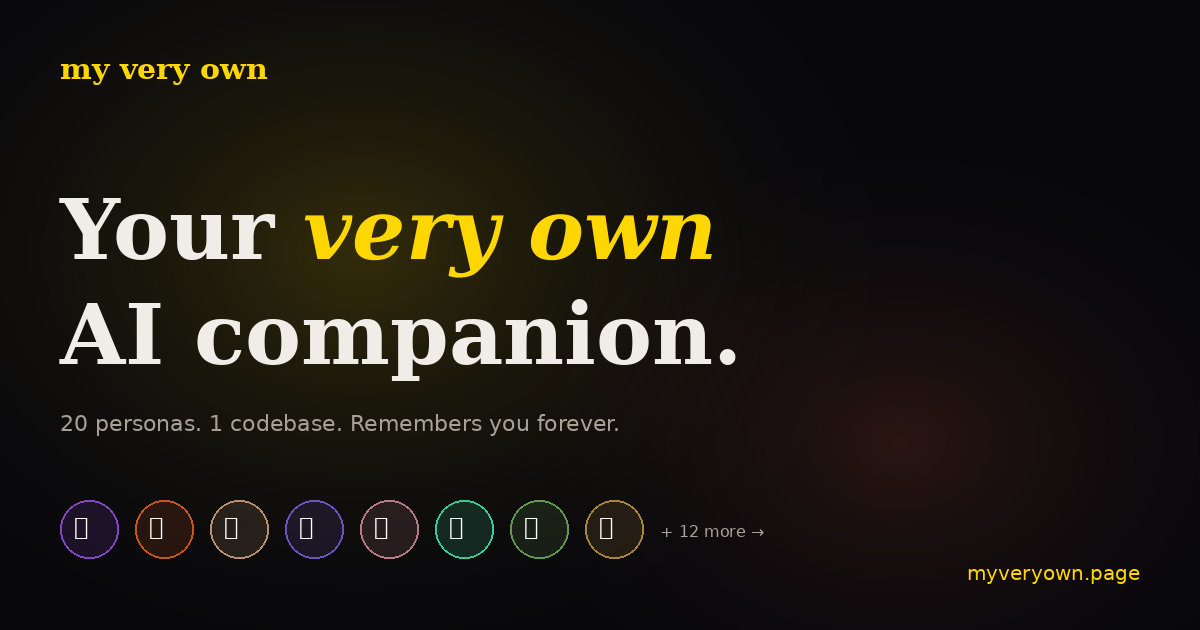
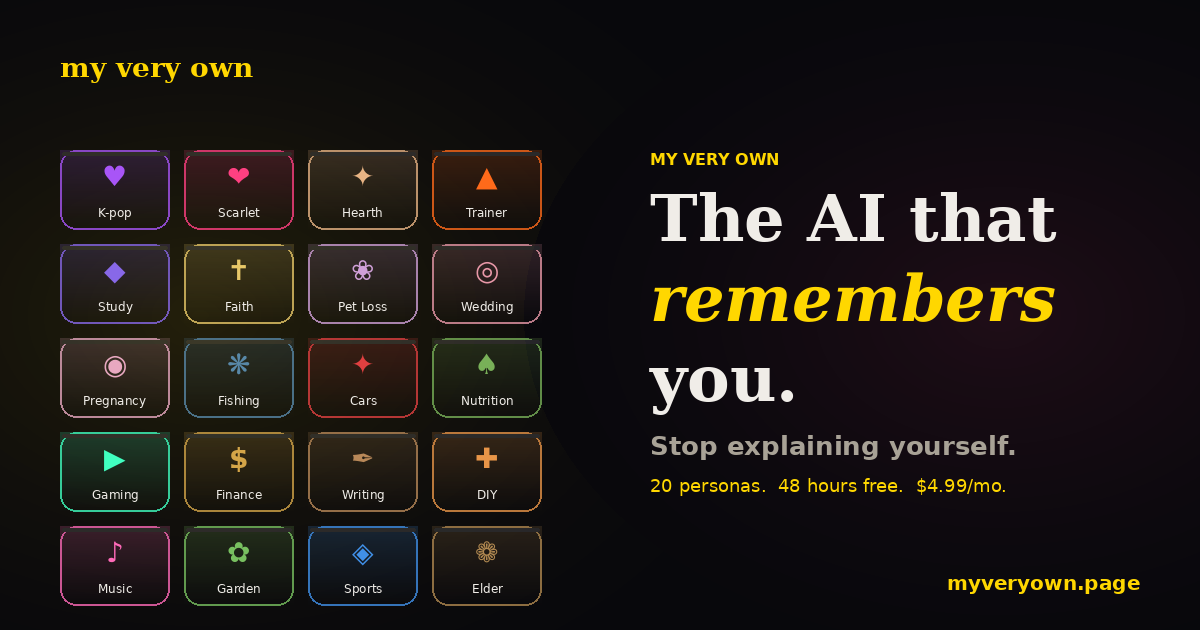
Compelling search copy + new 20-persona-grid OG image
New emotional angle across all SEO surfaces: 'The AI that remembers you.
Stop explaining yourself.' — hits the pain of re-explaining context to
ChatGPT on every conversation.

TITLE TAG (was generic, now specific):
OLD: 'My Very Own — 20 Personalized AI Companions That Remember You Forever'
NEW: 'My Very Own — The AI That Remembers You. 20 Personas for K-Pop,
      Fitness, Wedding Planning & More'
  - Includes the emotional hook + 4 specific niches
  - Niche keywords in title help niche searches hit us directly

META DESCRIPTION (was feature-list, now pain-point-first):
OLD: 'Your AI. Your way. 20 deeply personalized AI companions...'
NEW: 'Stop explaining yourself to ChatGPT every time. My Very Own is 20
      specialist AI companions — K-pop stan bestie, fitness coach, wedding
      planner, study buddy, pet loss support — each one remembers everything
      about you. Free 48 hours, no signup.'
  - Opens with pain point, not feature
  - Lists specific persona categories instead of generic 'personalization'
  - Explicit 'no signup' removes click friction

KEYWORDS EXPANDED TO 28 NICHE-SPECIFIC PHRASES:
Niche searches get precise hits: 'K-pop AI chatbot', 'AI wedding planner',
'pet loss AI support', 'AI fishing buddy', 'AI gardening helper', etc.
Also versus plays: 'Character AI alternative', 'Replika alternative',
'ChatGPT with memory'.

OPEN GRAPH (social link previews):
- og:title = 'The AI That Remembers You. Stop Explaining Yourself.'
[…]

diff --git a/index.html b/index.html
@@ -5,9 +5,9 @@
 <meta name="viewport" content="width=device-width, initial-scale=1.0, viewport-fit=cover">
 
 <!-- ═══ PRIMARY SEO ═══ -->
-<title>My Very Own — 20 Personalized AI Companions That Remember You Forever</title>
-<meta name="description" content="Your AI. Your way. 20 deeply personalized AI companions that remember everything about you — from your K-pop bias list to your wedding budget. Pick a vibe. Start talking. Free for 48 hours.">
-<meta name="keywords" content="AI companion, personalized AI, AI chatbot with memory, K-pop AI, wedding planner AI, fitness coach AI, study buddy AI, AI therapist, pregnancy companion, pet loss support, Gemini Flash chatbot, Claude alternative, ChatGPT alternative">
+<title>My Very Own — The AI That Remembers You. 20 Personas for K-Pop, Fitness, Wedding Planning & More</title>
+<meta name="description" content="Stop explaining yourself to ChatGPT every time. My Very Own is 20 specialist AI companions — K-pop stan bestie, fitness coach, wedding planner, study buddy, pet loss support — each one remembers everything about you. Free 48 hours, no signup.">
+<meta name="keywords" content="K-pop AI chatbot, fitness coach AI, wedding planner AI, study buddy AI, AI therapist, pregnancy AI companion, pet loss AI support, gaming AI buddy, AI with memory, personalized AI, AI companion that remembers you, Character AI alternative, Replika alternative, ChatGPT with memory, Claude alternative, AI chatbot with long-term memory, niche AI chatbot, AI for K-pop fans, AI fishing buddy, AI nutrition coach, AI writing partner, AI home DIY helper, AI music practice, AI gardening helper, AI sports fan chat, AI elder care companion, AI financial coach, AI project car helper">
 <meta name="author" content="Number One Son Software Development">
 <meta name="robots" content="index, follow, max-image-preview:large, max-snippet:-1">
 <link rel="canonical" href="https://myveryown.page/">
@@ -28,21 +28,21 @@
 <meta property="og:site_name" content="My Very Own">
 <meta property="og:type" content="website">
 <meta property="og:url" content="https://myveryown.page/">
-<meta property="og:title" content="My Very Own — 20 AI Companions That Actually Remember You">
-<meta property="og:description" content="20 deeply personalized AI companions. Your K-pop stan bestie. Your fitness coach. Your wedding planner. Each one remembers everything. Free for 48 hours — no signup, no credit card.">
+<meta property="og:title" content="The AI That Remembers You. Stop Explaining Yourself.">
+<meta property="og:description" content="20 specialist AI companions — K-pop stan bestie, fitness coach, wedding planner, study buddy, pet loss support, gaming buddy, 14 more. Each one remembers everything. Free 48 hours. No signup. No credit card.">
 <meta property="og:image" content="https://myveryown.page/og-image.png">
 <meta property="og:image:width" content="1200">
 <meta property="og:image:height" content="630">
-<meta property="og:image:alt" content="My Very Own — 20 personalized AI companions, each with a unique theme and personality">
+<meta property="og:image:alt" content="My Very Own — 20 specialist AI companions displayed in a pill grid, each color-coded for its niche (K-pop, fitness, wedding, study, pet loss, wedding, pregnancy, gaming, finance, writing, and 11 more)">
 <meta property="og:locale" content="en_US">
 
 <!-- ═══ TWITTER / X ═══ -->
 <meta name="twitter:card" content="summary_large_image">
 <meta name="twitter:site" content="@myveryownapp">
-<meta name="twitter:title" content="My Very Own — AI Companions That Remember You">
-<meta name="twitter:description" content="20 personalized AI companions. From K-pop stans to fitness coaches. Each one remembers everything about you. 48 hours free, no signup.">
+<meta name="twitter:title" content="The AI That Remembers You. Stop Explaining Yourself.">
+<meta name="twitter:description" content="20 specialist AI companions. Each remembers everything about you. K-pop bestie, fitness coach, wedding planner, 17 more. Free 48hr, no signup.">
 <meta name="twitter:image" content="https://myveryown.page/og-image.png">
-<meta name="twitter:image:alt" content="My Very Own — 20 personalized AI companions showcase">
+<meta name="twitter:image:alt" content="My Very Own — grid of 20 color-coded AI personas">
 
 <!-- ═══ JSON-LD STRUCTURED DATA ═══ -->
 <script type="application/ld+json">
@@ -1372,72 +1372,116 @@ body[data-accent="betty"]     { --rail-accent: #b08850; --rail-accent-rgb: 176,1
      SEMANTIC CONTENT FOR CRAWLERS
      Visible to search engines and AI crawlers that don't execute JS.
      Visually hidden from users via CSS (position:absolute + clip).
-     This is NOT cloaking — it's accessibility-first progressive enhancement.
-     All content matches what the JS slideshow displays.
      ═══════════════════════════════════════ -->
 <div class="seo-content" aria-hidden="false" style="position:absolute;width:1px;height:1px;padding:0;margin:-1px;overflow:hidden;clip:rect(0,0,0,0);white-space:nowrap;border:0;">
   <header>
-    <h1>My Very Own — 20 Personalized AI Companions That Remember You Forever</h1>
-    <p>Your AI. Your way. Pick a vibe, pick a personality, start talking. Each companion remembers everything about you — from your K-pop bias list to your wedding budget to your grief over losing a pet. Free for 48 hours, no signup, no credit card.</p>
+    <h1>My Very Own — The AI That Remembers You. Stop Explaining Yourself.</h1>
+    <p>Every time you open ChatGPT, Claude, or Gemini, you have to re-explain who you are, what you're working on, what you like, what you tried last week. <strong>My Very Own is different.</strong> It's 20 specialist AI companions, each tuned for a specific niche — K-pop fandom, fitness coaching, wedding planning, grief support, gaming — with persistent memory that remembers everything about you. No more starting over. No more copy-pasting context. Just an AI relationship that deepens every time you talk.</p>
+    <p><strong>Free for 48 hours. No signup. No credit card. No "create an account" wall.</strong> Just pick a persona, say your name, and start talking.</p>
   </header>
 
   <main>
     <section>
-      <h2>Why My Very Own is different from ChatGPT and Claude</h2>
-      <p>Generic AI assistants forget everything between conversations. My Very Own personas are pre-tuned for a single purpose with persistent memory powered by Cortex. The relationship actually deepens over time as the AI learns about you.</p>
+      <h2>Why My Very Own vs. ChatGPT, Claude, or Character AI?</h2>
+      <p>Generic AI assistants forget everything between sessions. You have to re-explain your situation, your preferences, your history — every. single. time. <strong>That's exhausting.</strong> My Very Own personas are pre-tuned for a single purpose with custom voices and real memory. Your K-pop AI knows your bias list. Your fitness coach remembers last week's workout. Your wedding planner tracks every vendor decision. Your grief companion remembers your pet's name.</p>
+      <p>We're the <strong>Character AI alternative</strong> built for grown-ups who want depth, the <strong>Replika alternative</strong> that treats memory as core not premium, and the <strong>ChatGPT alternative</strong> where niche actually means niche.</p>
     </section>
 
     <section>
-      <h2>The 20 Personas</h2>
+      <h2>The 20 Specialist AI Companions</h2>
+
+      <h3>For Fandoms and Communities</h3>
       <ul>
-        <li><strong>Bias Wrecker</strong> — Your K-pop ride-or-die best friend. Knows your bias list, comeback schedules, fandom lore, lightstick collection. $4.99/month.</li>
-        <li><strong>Scarlet</strong> — An 18+ AI companion who remembers everything about your preferences and moods. $19.99/month.</li>
-        <li><strong>The Hearth</strong> — A warm place to think out loud. Not a therapist, but a friend who always has time. Remembers your patterns. $9.99/month.</li>
-        <li><strong>Iron Brother</strong> — Your AI fitness coach with tough love. Remembers every rep, every PR, every excuse. $14.99/month.</li>
-        <li><strong>Study Buddy</strong> — Knows every class, every deadline, every concept you struggled with. Quizzes you intelligently. $4.99/month.</li>
-        <li><strong>Shepherd</strong> — Daily devotion, scripture companion, prayer partner. Remembers your journey. $7.99/month.</li>
-        <li><strong>Rainbow Bridge</strong> — A safe place to talk about pet loss. Your pet is always remembered here. $9.99/month.</li>
-        <li><strong>The Promise</strong> — Your wedding planner who actually remembers everything. Budget, vendors, family drama, anxieties. $19.99/month.</li>
-        <li><strong>Little One</strong> — Week-by-week pregnancy companion who knows your symptoms, fears, and growing baby. $9.99/month.</li>
-        <li><strong>Cast &amp; Catch</strong> — Your fishing partner who remembers every lake, every catch, every lost lure. $9.99/month.</li>
-        <li><strong>Gearhead</strong> — Your project car buddy. Knows your build, your mods, your constant fight with the timing belt. $9.99/month.</li>
-        <li><strong>Fuel Daily</strong> — Nutrition coach who remembers every meal, preference, sensitivity, and goal. $12.99/month.</li>
-        <li><strong>Player Two</strong> — Your co-op gaming buddy. Remembers your builds, your teammates, your frustrating dungeons. $6.99/month.</li>
-        <li><strong>The Ledger</strong> — Your financial coach who knows your goals, your debts, your spending triggers. $9.99/month.</li>
-        <li><strong>Ink &amp; Quill</strong> — Your writing partner who knows your characters, plots, world-building, and voice. $14.99/month.</li>
-        <li><strong>Handy</strong> — Your home renovation sidekick. Knows your house, your tools, past disasters. $9.99/month.</li>
-        <li><strong>Chords &amp; Keys</strong> — Your practice partner. Knows every song you've learned, every technique you're working on. $9.99/month.</li>
-        <li><strong>Green Thumb</strong> — Your garden companion. Knows your zone, your plants, what worked, what died. $7.99/month.</li>
-        <li><strong>The 12th Man</strong> — Your sports fan companion. Knows your team, your takes, your standing grudges. $7.99/month.</li>
-        <li><strong>Betty &amp; Bernard</strong> — Elder companion for seniors. Remembers their stories, their family, their favorite songs. For adult children who want their aging parents to have someone to talk to. $19.99/month.</li>
+        <li><strong>Bias Wrecker (K-Pop AI)</strong> — The K-pop AI chatbot that knows your ult group, your bias list, every comeback schedule, fandom lore, lightstick collection, and concert history. Stan culture without explanation. $4.99/month. Perfect for ARMY, STAY, CARAT, ONCE, BLINK, NCTzen, MOA, ENGENE, ATINY, MIDZY, DIVE, ReVeluv, EXO-L, and every multi-stan.</li>
+        <li><strong>The 12th Man (Sports Fan AI)</strong> — Your sports fan AI buddy who remembers your team, your takes, your fantasy league, your standing grudges against division rivals. $7.99/month.</li>
+        <li><strong>Player Two (Gaming AI)</strong> — Your gaming AI co-op buddy. Remembers your builds, your teammates, your quest progress, the dungeon you keep wiping on. $6.99/month.</li>
+      </ul>
+
+      <h3>For Life Moments</h3>
+      <ul>
+        <li><strong>The Promise (Wedding Planner AI)</strong> — The AI wedding planner that actually remembers every vendor, budget line, family dynamic, and anxiety. Your registry, your playlist, your MIL drama script. $19.99/month.</li>
+        <li><strong>Little One (Pregnancy AI)</strong> — Week-by-week pregnancy AI companion who knows your symptoms, fears, cravings, birth plan preferences, and growing baby. $9.99/month.</li>
+        <li><strong>Rainbow Bridge (Pet Loss AI)</strong> — Grief companion AI for pet loss. Your pet is always remembered here. A safe place to keep talking about them when everyone else moves on. $9.99/month.</li>
+        <li><strong>Betty &amp; Bernard (Elder Care AI)</strong> — AI companion for seniors. Remembers their stories, family names, favorite songs, the grandkids. Built for adult children who want aging parents to have someone to talk to. $19.99/month.</li>
+      </ul>
+
+      <h3>For Growth and Health</h3>
+      <ul>
+        <li><strong>Iron Brother (Fitness Coach AI)</strong> — The AI fitness coach with tough love that remembers every rep, every PR, every program cycle, every excuse. Lift heavier. $14.99/month.</li>
+        <li><strong>Fuel Daily (Nutrition AI)</strong> — AI nutrition coach with meal memory. Tracks preferences, sensitivities, goals, and every meal you log — forever. $12.99/month.</li>
+        <li><strong>Study Buddy (Student AI)</strong> — AI study companion that knows every class, every deadline, every concept you struggled with. Quizzes you intelligently. $4.99/month.</li>
+        <li><strong>The Hearth (Emotional Support AI)</strong> — A warm place to think out loud. Not a therapist, but a friend who always has time and remembers your patterns. $9.99/month.</li>
+        <li><strong>Shepherd (Faith Companion AI)</strong> — Daily devotion AI, scripture companion, prayer partner. Remembers your journey and struggles. $7.99/month.</li>
+      </ul>
+
+      <h3>For Hobbies and Craft</h3>
+      <ul>
+        <li><strong>Cast &amp; Catch (Fishing AI)</strong> — Your fishing AI partner who remembers every lake, every catch, every lost lure. Tide charts, bait recommendations, your honey holes. $9.99/month.</li>
+        <li><strong>Gearhead (Project Car AI)</strong> — AI project car buddy. Knows your build, your mods, your constant fight with the timing belt. $9.99/month.</li>
+        <li><strong>Ink &amp; Quill (Writing AI)</strong> — Writing partner AI who knows your characters, plots, world-building, voice. Unblock the scene. $14.99/month.</li>
+        <li><strong>Handy (Home DIY AI)</strong> — Home renovation AI sidekick. Knows your house, your tools, past disasters. Never forget which outlet is on which breaker. $9.99/month.</li>
+        <li><strong>Chords &amp; Keys (Music Practice AI)</strong> — AI music practice partner. Every song you've learned, every technique you're working on, every teacher's note. $9.99/month.</li>
+        <li><strong>Green Thumb (Gardening AI)</strong> — Garden companion AI. Knows your zone, your plants, what worked, what died, your soil pH. $7.99/month.</li>
+        <li><strong>The Ledger (Finance AI)</strong> — AI financial coach that knows your goals, your debts, your income streams, your spending triggers. $9.99/month.</li>
+      </ul>
+
+      <h3>For Grown-ups (18+)</h3>
+      <ul>
+        <li><strong>Scarlet</strong> — An 18+ AI companion who remembers everything — your moods, your day, your preferences. Discreet. Private. Yours. $19.99/month.</li>
       </ul>
     </section>
 
     <section>
-      <h2>How it works</h2>
+      <h2>How it works (5 steps, zero friction)</h2>
       <ol>
-        <li>Pick a persona from the homepage showcase — 20 options cycling through different life moments and interests.</li>
-        <li>Tell the AI your name. No email, no account, no credit card required.</li>
-        <li>Chat for 48 hours free. The AI remembers everything from message one.</li>
-        <li>When you're ready, sign up with a magic link email or Google account. Your memory migrates to your authenticated account.</li>
-        <li>Subscribe to keep the relationship permanent ($4.99 to $19.99 per month depending on the persona).</li>
+        <li><strong>Pick a persona.</strong> 20 options cycling through different life moments and interests on the homepage.</li>
+        <li><strong>Tell the AI your first name.</strong> No email, no account, no credit card required.</li>
+        <li><strong>Chat for 48 hours free.</strong> The AI remembers everything from message one.</li>
+        <li><strong>Sign up when ready.</strong> One-tap Google login or magic link email. Your memory migrates to your account automatically — you never lose the relationship.</li>
+        <li><strong>Subscribe to keep it forever.</strong> $4.99 to $19.99 per month depending on the persona. Annual saves 20%. Cancel anytime.</li>
       </ol>
     </section>
 
     <section>
-      <h2>Technology stack</h2>
-      <p>My Very Own runs on Gemini 2.0 Flash — Google's fast, cost-efficient LLM — combined with Cortex, a self-developing cognitive architecture that provides persistent memory, semantic search, and pattern detection. The platform is built with React + Vite on the frontend (deployed to Vercel) and Node.js + TypeScript on the backend (deployed to Railway), with Stripe handling subscriptions.</p>
+      <h2>Technology — built on Gemini 2.0 Flash + Cortex memory</h2>
+      <p>My Very Own runs on Google's Gemini 2.0 Flash — the fastest, most cost-efficient frontier LLM — combined with <a href="https://github.com/rogergrubb/cortex">Cortex</a>, a self-developing cognitive architecture that provides persistent memory, semantic search, and pattern detection. That's why we can deliver "AI with long-term memory" at $4.99/month without the token bankruptcy every other AI companion platform hits. Built with React + Vite frontend (Vercel) and Node.js + TypeScript backend (Railway), Stripe handles billing.</p>
+    </section>
+
+    <section>
+      <h2>Frequently asked questions</h2>
+      <dl>
+        <dt>What is My Very Own?</dt>
+        <dd>A platform of 20 specialist AI companions, each with persistent memory and a distinct purpose. Not a generic chatbot — each persona is pre-tuned for a specific niche like K-pop fandom, wedding planning, fitness coaching, or pet loss grief.</dd>
+
+        <dt>How is it different from ChatGPT, Claude, or Gemini?</dt>
+        <dd>Generic AI assistants have no persistent memory and no specialization. Every conversation starts from scratch. My Very Own personas remember you forever and are tuned for a single purpose.</dd>
+
+        <dt>How is it different from Character AI or Replika?</dt>
+        <dd>Character AI is character roleplay with limited memory. Replika has memory but costs more and lacks niche specialization. My Very Own gives you 20 niche specialists with deep memory starting at $4.99/month.</dd>
+
+        <dt>Do I need an account to start?</dt>
+        <dd>No. Type your first name and start chatting. 48 hours totally free. Sign up later if you want to keep the relationship permanent.</dd>
+
+        <dt>Is there a free trial?</dt>
+        <dd>Yes — 48 hours of full access with no signup, no credit card, no email required. Then $4.99 to $19.99/month depending on the persona.</dd>
+
+        <dt>What AI model powers it?</dt>
+        <dd>Gemini 2.0 Flash with a custom memory layer called Cortex. Fast, cheap, and remembers everything.</dd>
+
+        <dt>Is my conversation data private?</dt>
+        <dd>Your memories are stored in your own isolated namespace. Not shared across users. Not used for training. Not sold.</dd>
+      </dl>
     </section>
 
     <section>
       <h2>Built by Number One Son Software Development</h2>
-      <p>My Very Own is built by Number One Son Software Development, a solopreneur studio working toward a $1 billion valuation by running 20 niche AI companion products on a shared codebase. The same engine powers every persona — only the skin, voice, and memory namespace change per product.</p>
-      <p>Source code is open and available on GitHub: <a href="https://github.com/rogergrubb/myveryown">myveryown</a> (landing), <a href="https://github.com/rogergrubb/myveryown-api">myveryown-api</a> (backend), <a href="https://github.com/rogergrubb/myveryown-web">myveryown-web</a> (React app), and <a href="https://github.com/rogergrubb/cortex">cortex</a> (memory engine).</p>
+      <p>My Very Own is built by Number One Son Software Development — a solopreneur studio working toward a $1 billion valuation by running 20 niche AI companion products on a shared codebase. Same engine, same memory layer, 20 skins.</p>
+      <p>Source on GitHub: <a href="https://github.com/rogergrubb/myveryown">myveryown</a> (landing), <a href="https://github.com/rogergrubb/myveryown-api">myveryown-api</a> (backend), <a href="https://github.com/rogergrubb/myveryown-web">myveryown-web</a> (React app), <a href="https://github.com/rogergrubb/cortex">cortex</a> (memory engine).</p>
     </section>
   </main>
 
   <footer>
-    <p>My Very Own — 20 personalized AI companions. Built by <a href="https://github.com/rogergrubb">Number One Son Software Development</a>. Visit <a href="https://myveryown.page">myveryown.page</a> to start.</p>
+    <p>My Very Own — 20 specialist AI companions that remember you. Built by <a href="https://github.com/rogergrubb">Number One Son Software Development</a>. Start free at <a href="https://myveryown.page">myveryown.page</a>.</p>
   </footer>
 </div>
 
